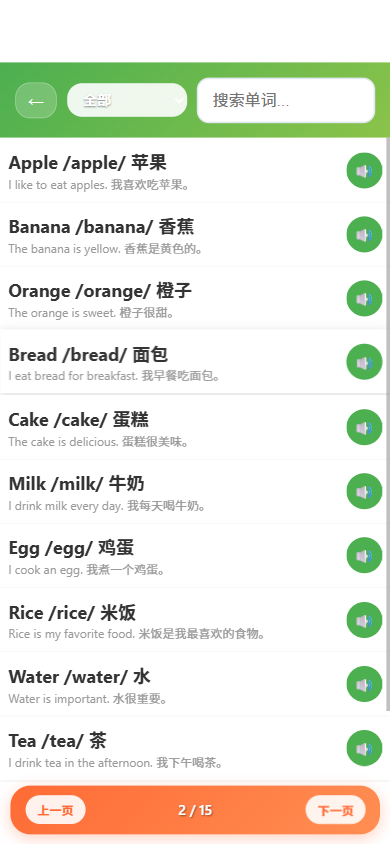
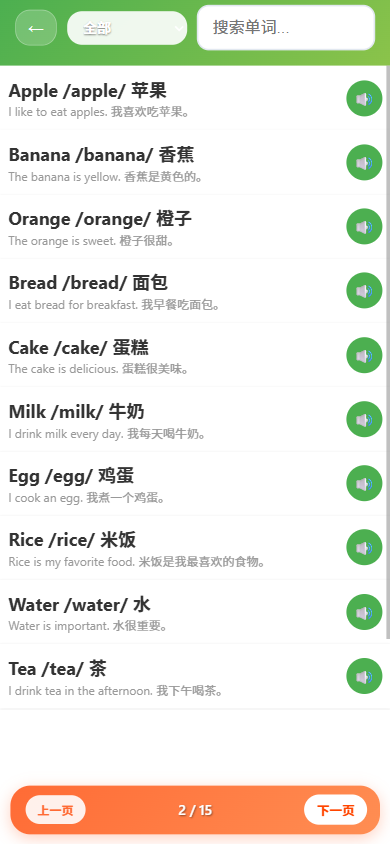
修复单词本问题

diff --git a/index.html b/index.html
@@ -1398,10 +1398,17 @@
                 flex-direction: column;
                 height: 100vh;
                 overflow: hidden;
+                justify-content: flex-start !important;
+            }
+
+            .vocab-header {
+                padding: 2px 15px 15px 15px;
+                margin-top: 0;
             }
 
             .vocabulary-header {
                 padding: 0 5px 16px 5px;
+                margin-top: 0;
             }
 
             .word-card {
@@ -1575,6 +1582,8 @@
             flex-direction: column;
             height: 100%;
             position: relative;
+            justify-content: flex-start !important;
+            align-items: stretch;
         }
 
         #vocabularyScreen:not(.active) {
@@ -1585,8 +1594,9 @@
 
         .vocab-header {
             background: linear-gradient(135deg, #4CAF50, #8BC34A);
-            padding: 15px;
+            padding: 5px 15px 15px 15px;
             color: white;
+            margin-top: 0;
         }
 
         .vocab-header-top {
